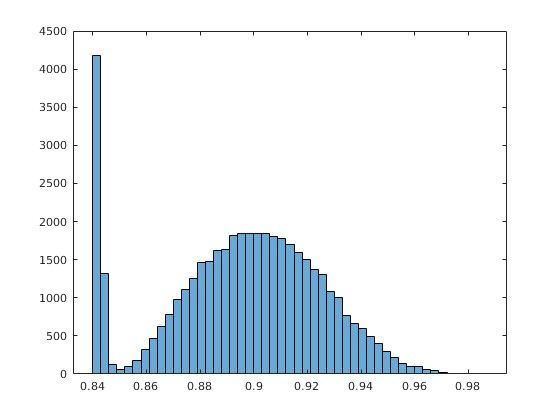
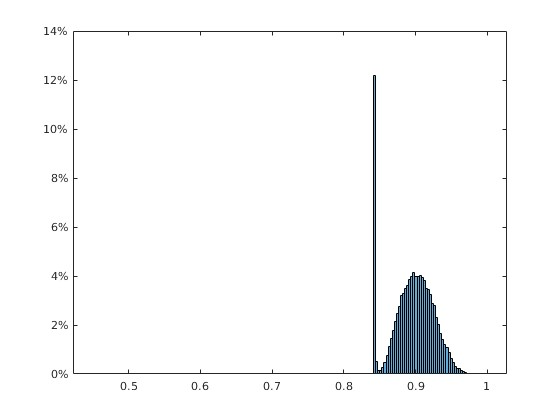
Add files via upload

diff --git a/mnist.m b/mnist.m
@@ -19,7 +19,7 @@ YTest = test.labels;
 XTestF = reshape(XTest,[n*m,lts]);
 
 %% Continous learning
-k=1; %6;
+k=6; %6;
 sub_len = l/k;
 
 for i = 1:k
@@ -78,7 +78,7 @@ t_out=t_in;
 ini_rate = 0.0002; 
 max_epoch = 100;
 
-modelName = 'mnist_ae_vt';
+modelName = 'mnist_ae';
 if k == 1
     modelFile = strcat(modelName, '.mat');
 else
@@ -128,8 +128,9 @@ end
 end
 
 %% LrReLU weights
-histogram(regNet.lGraph.Layers(5,1).A) %28
-histogram(regNet.lGraph.Layers(7,1).A) %43905
+%histogram(regNet.lGraph.Layers(5,1).A) %28
+histogram(regNet.lGraph.Layers(7,1).A,'BinLimits',[0.45,1], Normalization="percentage") %43905
+ytickformat("percentage") 
 
 %% activations
         % GPU on
